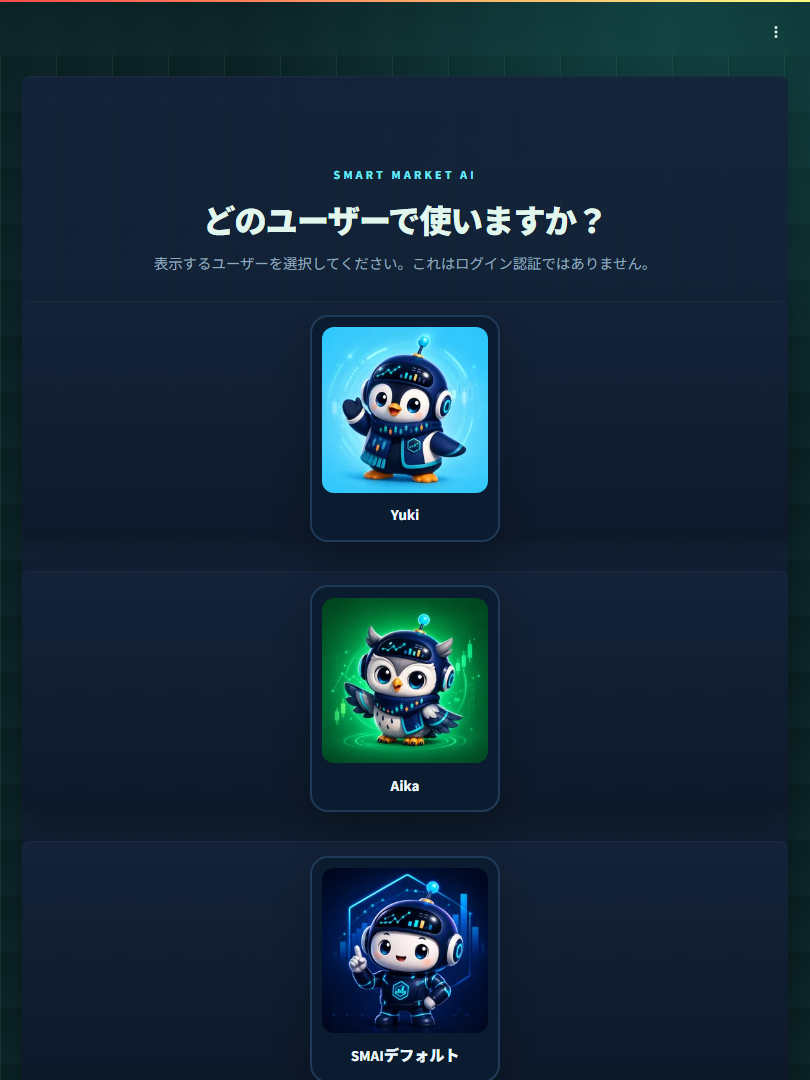
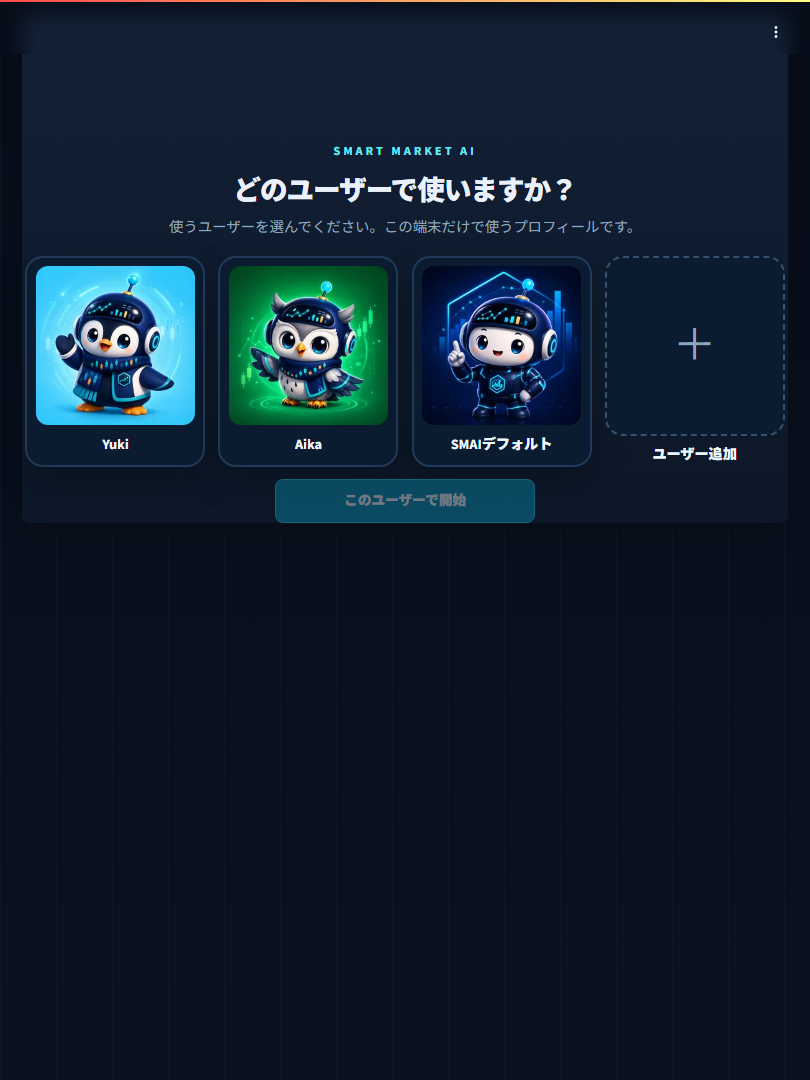
fix: complete frontend usability F1 audit

diff --git a/tests/ui/test_responsive_investment_radar_smoke.py b/tests/ui/test_responsive_investment_radar_smoke.py
@@ -65,6 +65,7 @@ def test_investment_radar_responsive_viewports() -> None:
                 assert page.get_by_role("button").count() > 0
                 assert page.get_by_role("tab").count() == 2
                 assert page.get_by_role("tab", name="市場レーダー").count() == 1
+                assert page.get_by_role("tab", name="ニュース一覧").count() == 1
                 assert page.get_by_role("button", name="今すぐ更新").count() == 1
                 ticker_items = page.locator(
                     "#investment-news-market-headlines .investment-news-ticker-item"
@@ -85,45 +86,56 @@ def test_investment_radar_responsive_viewports() -> None:
                     .count()
                     == 1
                 )
-                market_surface = page.locator("section.investment-market-heatmap")
-                market_surface.wait_for(state="visible", timeout=120_000)
-                assert page.get_by_text("比較期間は約1か月", exact=False).count() > 0
-                assert page.get_by_text("比較期間", exact=True).count() == 0
-                heatmap_tile = market_surface.locator("a.investment-market-heatmap-tile").first
-                heatmap_header = market_surface.locator(
-                    ".investment-market-heatmap-group-header"
-                ).first
-                assert heatmap_tile.count() > 0
-                assert heatmap_header.count() > 0
-                assert str(heatmap_tile.get_attribute("href")).startswith("?smai_start_profile=")
-                header_box = heatmap_header.bounding_box()
-                assert header_box is not None
-                assert header_box["height"] >= 40
-                assert page.get_by_text("直近20営業日の値動き", exact=False).count() > 0
-                assert page.get_by_text("本文／推測", exact=False).count() > 0
                 overview_title = page.get_by_text("投資レーダー AI読み解き（参考）", exact=True)
                 assert overview_title.count() == 1
                 overview_title.scroll_into_view_if_needed()
                 assert page.get_by_text("候補順・価格・Ranking・Forecast", exact=False).count() > 0
-                market_groups = market_surface.locator(".investment-market-heatmap-groups")
-                if 768 <= width <= 1200:
-                    grid_column_count = market_groups.evaluate(
-                        "(element) => getComputedStyle(element).gridTemplateColumns"
-                        ".split(' ').filter(Boolean).length"
+
+                market_surface = page.locator("section.investment-market-heatmap")
+                if market_surface.count():
+                    market_surface.wait_for(state="visible", timeout=120_000)
+                    assert page.get_by_text("比較期間は約1か月", exact=False).count() > 0
+                    assert page.get_by_text("比較期間", exact=True).count() == 0
+                    heatmap_tile = market_surface.locator("a.investment-market-heatmap-tile").first
+                    heatmap_header = market_surface.locator(
+                        ".investment-market-heatmap-group-header"
+                    ).first
+                    assert heatmap_tile.count() > 0
+                    assert heatmap_header.count() > 0
+                    assert str(heatmap_tile.get_attribute("href")).startswith(
+                        "?smai_start_profile="
                     )
-                    assert grid_column_count == 1
-                elif width >= 1280:
-                    grid_column_count = market_groups.evaluate(
-                        "(element) => getComputedStyle(element).gridTemplateColumns"
-                        ".split(' ').filter(Boolean).length"
+                    header_box = heatmap_header.bounding_box()
+                    assert header_box is not None
+                    assert header_box["height"] >= 40
+                    assert page.get_by_text("直近20営業日の値動き", exact=False).count() > 0
+                    market_groups = market_surface.locator(".investment-market-heatmap-groups")
+                    if 768 <= width <= 1200:
+                        grid_column_count = market_groups.evaluate(
+                            "(element) => getComputedStyle(element).gridTemplateColumns"
+                            ".split(' ').filter(Boolean).length"
+                        )
+                        assert grid_column_count == 1
+                    elif width >= 1280:
+                        grid_column_count = market_groups.evaluate(
+                            "(element) => getComputedStyle(element).gridTemplateColumns"
+                            ".split(' ').filter(Boolean).length"
+                        )
+                        assert grid_column_count >= 2
+                    market_surface.scroll_into_view_if_needed()
+                else:
+                    unavailable = page.get_by_text(
+                        "比較に必要な価格履歴を取得できませんでした。",
+                        exact=False,
                     )
-                    assert grid_column_count >= 2
-                market_surface.scroll_into_view_if_needed()
+                    unavailable.wait_for(state="visible", timeout=120_000)
+                    assert page.locator("a.investment-market-heatmap-tile").count() == 0
+                    unavailable.scroll_into_view_if_needed()
                 page.screenshot(
                     path=str(screenshot_dir / f"{name}.png"),
                     full_page=False,
                 )
-                if width <= 767:
+                if width <= 767 and market_surface.count():
                     tile_box = heatmap_tile.bounding_box()
                     assert tile_box is not None
                     assert tile_box["height"] >= 44

diff --git a/tests/ui/test_ui_user_paths_smoke.py b/tests/ui/test_ui_user_paths_smoke.py
@@ -125,12 +125,17 @@ def test_path_2_scan_market_then_open_symbol_and_compare_ranking_conditions() ->
             _start_default_user(page)
 
             _navigate(page, "投資レーダー", "投資レーダー")
-            page.get_by_text("ニュース詳細フィルタ", exact=True).click()
-            page.locator('[data-testid="stMultiSelect"]').first.click()
-            page.keyboard.press("Escape")
-            heatmap_tile = page.locator("a.investment-stock-heatmap-tile").first
-            heatmap_tile.wait_for(state="visible", timeout=30_000)
-            heatmap_tile.click()
+            page.get_by_role("tab", name="ニュース一覧", exact=True).click()
+            candidate_expander = page.get_by_text(re.compile(r"^確認候補（補助）・\d+件$"))
+            candidate_expander.wait_for(state="visible", timeout=30_000)
+            candidate_expander.click()
+            candidate_link = page.locator("a.investment-radar-candidate-footer-item").first
+            candidate_link.wait_for(state="visible", timeout=30_000)
+            assert "smai_page=cockpit" in str(candidate_link.get_attribute("href"))
+            with page.expect_popup() as popup_info:
+                candidate_link.click()
+            page = popup_info.value
+            page.wait_for_load_state("networkidle", timeout=120_000)
             page.get_by_role("heading", name="銘柄コックピット", exact=True).wait_for(
                 state="visible", timeout=60_000
             )
@@ -139,7 +144,13 @@ def test_path_2_scan_market_then_open_symbol_and_compare_ranking_conditions() ->
             page.get_by_role("button", name="📚 ランキング履歴", exact=True).click()
             page.get_by_text("ランキング履歴", exact=True).wait_for(state="visible", timeout=30_000)
             page.get_by_role("button", name="← ランキングへ戻る", exact=True).click()
-            page.get_by_role("button", name="国・市場を選ぶ", exact=True).click()
+            page.get_by_text(
+                "詳細条件・キーワードで候補を絞り込む",
+                exact=True,
+            ).click()
+            country_filter_button = page.get_by_role("button", name="国・市場を選ぶ", exact=True)
+            country_filter_button.wait_for(state="visible", timeout=120_000)
+            country_filter_button.click()
             page.get_by_role("dialog").wait_for(state="visible", timeout=30_000)
             page.get_by_role("button", name="キャンセル", exact=True).last.click()
             _assert_healthy_page(page)

diff --git a/tests/ui/test_notification_profile_gate_smoke.py b/tests/ui/test_notification_profile_gate_smoke.py
@@ -78,6 +78,16 @@ def test_profile_gate_then_fixed_user_area_at_responsive_viewports() -> None:
                 page.get_by_role("heading", name="銘柄コックピット", exact=True).wait_for(
                     state="visible", timeout=60_000
                 )
+                if width <= 767:
+                    sidebar = page.locator('[data-testid="stSidebar"]')
+                    sidebar_close = page.locator('[data-testid="stSidebarCollapseButton"] button')
+                    if (
+                        sidebar.get_attribute("aria-expanded") == "true"
+                        and sidebar_close.count()
+                        and sidebar_close.is_visible()
+                    ):
+                        sidebar_close.click()
+                        page.wait_for_timeout(400)
                 user_area = page.locator("button.smai-user-trigger")
                 user_area.wait_for(state="visible", timeout=30_000)
                 assert page.locator(".smai-user-avatar").count() == 1

diff --git a/ui/notification_center.py b/ui/notification_center.py
@@ -186,10 +186,10 @@ def trusted_device_bootstrap_html(
           border-radius: 9px; object-fit: cover; vertical-align: middle; }}
         @media (max-width: 1024px) {{ .smai-user-id {{ display: none; }}
           .smai-user-trigger {{ top: .25rem !important; right: 3rem !important; }}
+        }} @media (max-width: 767px) {{
           body:has(section[data-testid="stSidebar"][aria-expanded="true"]) .smai-user-trigger {{
             visibility: hidden !important; pointer-events: none !important;
-          }} }}
-        @media (max-width: 767px) {{ .smai-user-name, .smai-user-id {{ display: none; }}
+          }} .smai-user-name, .smai-user-id {{ display: none; }}
           .smai-user-trigger {{ min-width: 96px; }} .smai-profile-card {{ max-width: 156px; }} }}
       `;
       window.parent.document.head.appendChild(style);

diff --git a/tests/test_ui_notification_center.py b/tests/test_ui_notification_center.py
@@ -20,6 +20,15 @@ def test_user_area_is_fixed_responsive_and_not_in_side_menu() -> None:
         'body:has(section[data-testid="stSidebar"][aria-expanded="true"]) .smai-user-trigger'
         in html
     )
+    tablet_media, mobile_media = html.split("@media (max-width: 767px)", 1)
+    assert (
+        'body:has(section[data-testid="stSidebar"][aria-expanded="true"]) .smai-user-trigger'
+        not in tablet_media.split("@media (max-width: 1024px)", 1)[1]
+    )
+    assert (
+        'body:has(section[data-testid="stSidebar"][aria-expanded="true"]) .smai-user-trigger'
+        in mobile_media
+    )
     assert "visibility: hidden !important; pointer-events: none !important;" in html
     assert '"top", "8.4rem", "important"' in html
     assert "positionUserMenu" in html

diff --git a/PROJECT_CONTEXT.md b/PROJECT_CONTEXT.md
@@ -5,7 +5,7 @@
 This file is the compact current-state summary for Smart Market AI.
 Historical work entries belong in [Documents/99_Work_Log.md](Documents/99_Work_Log.md).
 
-Last updated: 2026-08-11
+Last updated: 2026-09-08
 
 ## Main Application access / MagicDNS
 
@@ -229,13 +229,12 @@ Phase 36 also has an operational point-in-time material-risk cycle. The material
 
 The backend-to-frontend sprint gate is now executable through `tools/audit_backend_readiness.py`. It checks the required API routes, configured MarketData provider and whole-operation deadline, sealed Forecast integrity/maturity, and point-in-time material/signal integrity without network calls or runtime mutations. The 2026-07-20 local audit is `ready_with_pending_evidence`: zero blockers, 360 sealed predictions pending future targets, 113 valid material records, and zero causally eligible LLM risk signals. Pending evidence is not treated as missing code and does not block the frontend usability sprint; it cannot authorize runtime model adoption.
 
-A staged architecture refactoring track is active before the frontend usability sprint. The initial
-boundary slice removes the only static `backend -> ui` import by injecting the established UI
-ranking policy through a backend-owned port, and a structural regression test prevents that reverse
-dependency from returning. Numerical Forecast, Ranking, Scoring, Risk, API, and export semantics are
-unchanged. Subsequent slices will extract Ranking and Cockpit application flows from `ui/app.py`,
-split Research use cases and large UI views, move CSS to scoped assets, and remove package cycles
-with compatibility façades. See `Documents/46_Large_Scale_Refactoring_Plan.md`.
+The staged R0-R6 architecture refactoring track has completed its initial gates. Ranking and
+Cockpit application boundaries, Research use cases, Copilot / News / CSS view boundaries, package
+API compatibility, reverse-dependency checks, eager-cycle checks, and module/function growth gates
+are now covered by deterministic regression tests. R6 remains a continuing maintenance gate.
+Numerical Forecast, Ranking, Scoring, Risk, API, and export semantics were unchanged by this track.
+See `Documents/46_Large_Scale_Refactoring_Plan.md`.
 
 The first Research split is also complete: deterministic company business, supporting-business,
 product/service, region, and customer classification policies now live outside the aggregate
@@ -533,7 +532,13 @@ The product direction is to help users compare symbols, inspect provider-backed 
 - LLM model selection is owned by `smai-ai-gateway`: SMAI parent sends `task_type`, `execution_mode`, `environment_profile`, and optional `profile` / `model`, while Gateway resolves `notebook_dev` / `notebook_standard` / `desktop_fast` / `desktop_analysis` / `desktop_heavy` to provider/model/timeout/token settings and returns response metadata for the UI. Notebook development defaults to `qwen3:1.7b`; the SMAIアシスタント model picker can switch to `qwen3:4b` / `qwen3:8b` / `qwen3:14b` / `qwen3:30b`.
 - SMAI Assistant now treats valid Gateway answers as `response_source=llm` and reserves `response_source=deterministic_fallback` for Gateway/provider/model/timeout/schema/empty-answer failure paths. Assistant turns preserve `request_id`, `gateway_status`, `fallback_reason`, `latency_ms`, `provider`, `model`, `profile`, `timeout_sec`, `context_tokens_estimate`, `prompt_chars`, `response_chars`, `tool_execution_ms`, `llm_generation_ms`, `total_elapsed_ms`, conversation mode, and Gateway/provider diagnostic metadata. The UI keeps runtime metadata in a folded `技術情報を表示` block for analysis-style answers, but hides technical fallback metadata for normal chat / identity / capability turns. The header uses a centralized `AssistantRuntimeStatus` model for ready / checking / generating / research planned / research running / degraded / Gateway unavailable / provider unavailable / model missing states, keeps first display neutral as `LLM待機中`, and refreshes from pending events, cached diagnostics, or the latest answer response so success / fallback status stays aligned with the chat. New conversation clears stale runtime status and Gateway diagnostic cache.
 
-Current focus is project maturity improvement rather than feature expansion. Functional spec issues and a manual UX review checklist have been introduced so confusing behavior, unclear role boundaries, and investment-advice-like wording can be reviewed before more advanced features are added.
+Current focus is the frontend usability follow-up after the backend and R0-R6 readiness gates, not
+feature expansion. F1 revalidated the seven primary screens and three cross-screen journeys with a
+network-free mock Streamlit process at iPhone, iPad, and PC widths. It fixed the iPad user/notification
+entry point being hidden by an off-screen sidebar state and aligned Radar smoke coverage with the
+valid fail-closed market-data-unavailable path. Forecast, Ranking, scores, provider selection, LLM
+fallback, and user persistence remain unchanged. Live providers, external LLM, notification delivery,
+and physical-device Safari/PWA remain separate opt-in checks.
 
 Notification Platform Phase N1-N5-C foundation is implemented as an independent `smai-notification-gateway`, parent client/adapter, versioned SQLite user settings/history, notification center, catalog Producer, and opt-in scheduler. `data/user/notifications.sqlite` is created on first settings access; blank topic input preserves the stored topic, only the dedicated delete action clears it, and the UI never redisplays it in plaintext. HTTPS is allowed, HTTP is limited to loopback, equal quiet-hour endpoints are rejected, and severity is fixed-choice. Real ntfy delivery is reachable only from explicit opt-in paths; normal checks use fake clients/bindings/transports and remain network-free. N6 first slice connects the runner through a read-only, user-scoped adapter to persisted favorites/watchlist snapshots and the already-cached fresh News dashboard. Missing, stale, or irrelevant data is recorded as a skipped run and never falls back to catalog sample data; it does not refresh providers or change scores/rankings. N6 second slice emits a deduped `smai_analysis_complete` only after an explicit Cockpit AI Research refresh returns a report; reruns, page rendering, report downloads, and the default user cannot create it. N6 third slice moves persisted Assistant Report artifacts to `data/user/profiles/<user_id>/decision_reports/` and emits a deduped `smai_report_ready` only after a custom user's explicit saved Markdown / ZIP artifact succeeds; preview, download, rerun, cancel, failed archive, and the default user cannot create it. N6 fourth slice accepts `favorite_move_alert` input only from a custom user's fresh (90 minutes), valid, timestamped Watchlist price measurements and dedupes the exact measurement set. N6 fifth slice makes `favorite_daily_report` skip if it finds no valid price or 1-day-change measurement within 36 hours; otherwise it reports the bounded measured coverage against the user's Favorite count. N6 sixth-A/B slices evaluate each favorite-move measurement against an explicit saved-market regular-session policy and a versioned local calendar: Japan uses `Asia/Tokyo` split sessions plus reviewed JPX holidays, while US equities use `America/New_York`, DST, reviewed NYSE holidays, and the 2026 November 27 / December 24 early closes. Unknown market, unsupported asset type, weekend, closed day, out-of-session, calendar-unavailable, and calendar-coverage-missing measurements become safe skips; neither ticker inference nor local-server time decides eligibility. The scheduler passes one aware evaluation timestamp to the source so dry-run and delivery agree at time boundaries, and lets `favorite_move` reach the market policy even when the server timezone is on a weekend. Future calendar coverage is a reviewed seed update; unlisted dates fail closed. These slices read local snapshots only, neither starts a provider request nor writes a cache, and stale/failed/malformed data becomes a safe skipped run. `--dry-run` evaluates due jobs without notification history, run logs, or delivery. See `Documents/04_Detail_Design/04-10_Onepager_Notification_Platform.md`.
 

diff --git a/Documents/05_Implementation_Roadmap.md b/Documents/05_Implementation_Roadmap.md
@@ -310,6 +310,12 @@ confidence / range評価、Provider・Gateway失敗時contract、保存migration
 確認する。この期間は新しい画面表示やUIロジックを増やさない。backend完了判定後にPC / iPhone / iPadの
 ユーザビリティテストへ移る。
 
+2026-09-08更新: backend readinessは`ready_with_pending_evidence`（blocker 0）のまま、R0〜R6の初期構造
+gateも完了した。pending evidenceはruntime採用を許可しないがFrontendを止めないため、Frontend
+Usability F1を実施した。主要7画面、通知／ユーザー領域、3本の画面横断導線をnetwork-free mockで再確認し、
+iPadで画面外sidebar状態が固定ユーザー領域を隠す不具合を修正した。次は実機Safari/PWAとlive依存を分離
+したまま、再現したUI課題だけを小さなvertical sliceで扱う。
+
 優先順位の考え方:
 
 - 実装済み Assistant / Gateway 基盤の次の独自価値として、まず `SMAIアシスタント` を通常会話できるAIから、必要なSMAI機能を承認付きで使う `Command Center / Research Mode` へ進める。
@@ -2644,15 +2650,10 @@ Markdown UTF-8 check:
 
 ## 8. Open Items
 
-- 大規模リファクタリングR0〜R6を`Documents/46_Large_Scale_Refactoring_Plan.md`に従って段階実施する。
-  R0境界固定とR1 Ranking application flowは完了した。R2 Cockpitはfilter、preview request / adoption、
-  display model、presentation context、preview-owned session state、R2-BのResearch / Decision Report
-  context・use case、R2-CのResearch / Decision Report presenter・page境界、typed summary page component、
-  Forecast hero header、価格Chart操作・通貨選択・個別モデル詳細expanderの表示orchestration、Altair chart
-  renderer、個別Forecast model detail pageまで分離済み。`ui.app`には既存rowのdata-shapingとStreamlit出力
-  portだけを残している。次はR2-Cのchart data-shaping helperを再利用presenterへ切り分け、Cockpit presenter /
-  page境界を閉じる。
-  その後はR3 Research、R4 Copilot / News / CSS、R5 package cycle、R6継続gateの順で進める。
+- 大規模リファクタリングR0〜R6は`Documents/46_Large_Scale_Refactoring_Plan.md`の初期完了gateを満たした。
+  Ranking / Cockpit application flow、Research use case、Copilot / News / CSS、package API / import safetyを
+  分離し、R6の逆依存・cycle・module/function growth監査を通常変更の継続gateとして運用する。
+  Frontend Usability F1も2026-09-08に実施済みで、以後は実画面で再現した課題だけを局所修正する。
   Phase 35 / 36とsealed Forecast auditの成熟待ちは観測トラックであり、構造改善を止めない一方、
   採用gate通過前の数値、score、順位、runtime weight変更を許可しない。Notification N6はuser / port境界が
   固定された機能からmanual / dry-run、opt-in schedulerの順に実データへ接続する。

diff --git a/docs/ui/three_week_ui_quality_sprint.md b/docs/ui/three_week_ui_quality_sprint.md
@@ -55,3 +55,11 @@ viewport の自動確認は、起動済みの隔離Streamlitに対して既存 `
 - 改善: タイポグラフィ縮小後もPC 36px・タッチ画面 44pxの操作高さを保証しました。固定ユーザー操作は本文と重ねず、サイドバー展開中は非表示にして閉じる操作を優先します。スマホの共通ヘッダーと本文開始余白を圧縮し、画面固有の見出し・主要操作を初期表示へ寄せました。
 - 文言・配色: 重複した画面説明と過剰な安全注記をページ冒頭から整理し、根拠・不確実性が必要な詳細表示は維持しました。ベース配色と主要CTAを青／ネイビー基調に戻し、緑は上昇・成功などの状態表現に限定しました。
 - 未実行: 実機Safari / PWA、live provider、外部LLM、実通知配送は、network-freeの通常回帰と分離したmanual / live smoke対象です。
+
+## 2026-09-08: Frontend Usability F1 再監査
+
+- 正規化した実パスから隔離Streamlitを起動し、mock provider・background worker停止で主要7画面、通知／ユーザー領域、3本の画面横断導線を再実行した。結果は **11 passed, 1 skipped**（任意チャート描画）だった。
+- iPad幅ではStreamlit sidebarが画面外でも`aria-expanded=true`を保持し、固定ユーザー領域が誤って非表示になることを再現した。sidebar展開中に固定入口を隠す条件をスマホ幅だけへ限定し、iPadで通知・ユーザー切替入口を維持した。
+- 投資レーダーは、mock providerで比較価格を取得できない場合にヒートマップを捏造せず、取得不能理由、再確認方法、AI読み解きの非順位・非推奨境界を表示する分岐をviewport smokeへ固定した。
+- 画面横断導線は現行の`ニュース一覧`→`確認候補（補助）`→Cockpitと、Rankingの履歴→詳細条件→国・市場ダイアログへ更新した。
+- 未実行: 実機Safari / PWA、live provider、外部LLM、実通知配送。これらは通常のnetwork-free回帰とは分離する。

diff --git a/Documents/99_Work_Log.md b/Documents/99_Work_Log.md
@@ -1,5 +1,12 @@
 # 99_Work_Log
 
+## 2026-09-08 Frontend Usability F1
+
+- backend readiness `ready_with_pending_evidence`とR0〜R6初期完了を前提に、正規実パスからnetwork-free mock Streamlitを起動し、主要7画面、通知／ユーザー領域、3本の画面横断導線を再監査した。
+- iPad幅で画面外sidebarの`aria-expanded=true`により固定ユーザー領域が隠れる問題を修正した。sidebarとの競合回避はスマホ幅だけに限定し、iPadでは通知センター、ユーザー設定、通知設定、ユーザー切替を使える状態にした。
+- Investment Radar smokeを、実価格ヒートマップがある正常分岐と、価格履歴を取得できず明示警告を出すfail-closed分岐の両方に対応させた。ユーザー導線は現行のニュース一覧・確認候補とRanking詳細条件へ同期した。
+- responsive / user-path browser suiteは11件成功、任意チャート1件skip。関連単体／AppTestは56件成功、全local checksは2,580件成功・16件skip、Ruff、Black、対象Mypy、architecture audit（309 modules / 924 edges / backend→UI 0 / cycle 0）も成功した。Forecast、Ranking、Score、Provider、LLM、保存契約は変更していない。実機Safari/PWA、live provider、外部LLM、実通知配送は未実行。
+
 ## 2026-08-03 N6 notification market-calendar sixth-B slice
 
 - `config/notification_market_calendar.v1.json`へ、公式JPX / NYSEカレンダーで確認した2026年の休場日と、米国株11月27日・12月24日の13:00 ET短縮取引をreview済みlocal seedとして追加した。calendar loaderはschema、coverage、ISO日付、HTTPS source、休場日とoverrideの競合、時間帯の順序・重複を検証し、破損・欠損・coverage外は通知をfail-closedにする。

diff --git a/Documents/46_Large_Scale_Refactoring_Plan.md b/Documents/46_Large_Scale_Refactoring_Plan.md
@@ -96,7 +96,7 @@ ui/assets/styles/      # base / component / page別CSS
 
 | トラック | 役割 | 現在地 | 実行ルール |
 |---|---|---|---|
-| A: 構造改善 | R2からR6までの責務分離 | R2進行中 | 主実装トラック。評価データの成熟を待たず進めてよい |
+| A: 構造改善 | R2からR6までの責務分離 | R0〜R6初期gate完了 | R6監査を通常変更の継続gateとして運用する |
 | B: 評価・観測 | Phase 35 / 36、sealed Forecast audit | 成熟待ち | 収集・集計は継続可能。採用gate通過前は数値、順位、runtime weightを変えない |
 | C: 運用接続 | Notification N6、live Provider / Gateway接続 | foundation完了、実接続待ち | user境界とportが固定された機能から小さく接続し、通常testはnetwork-freeに保つ |
 
